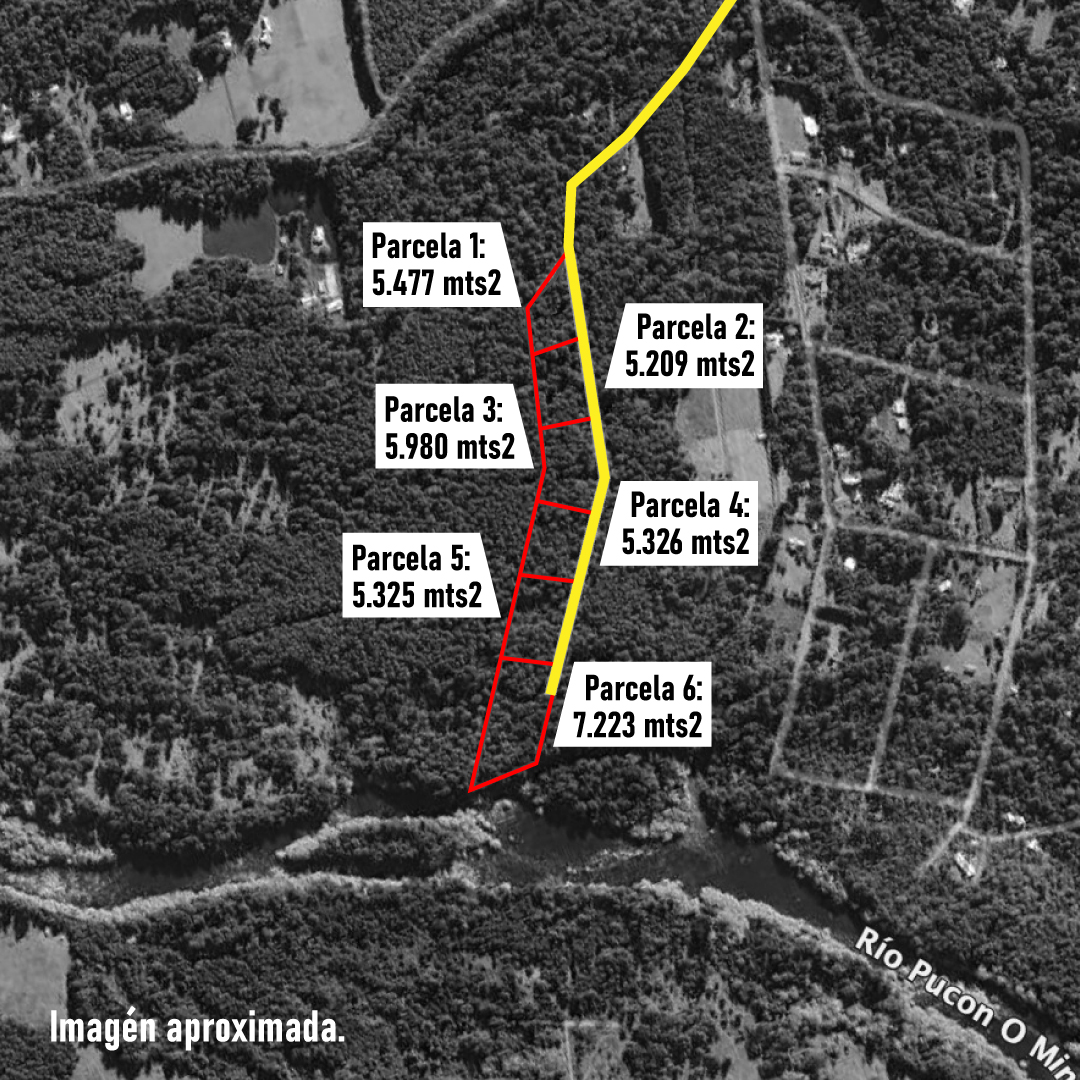
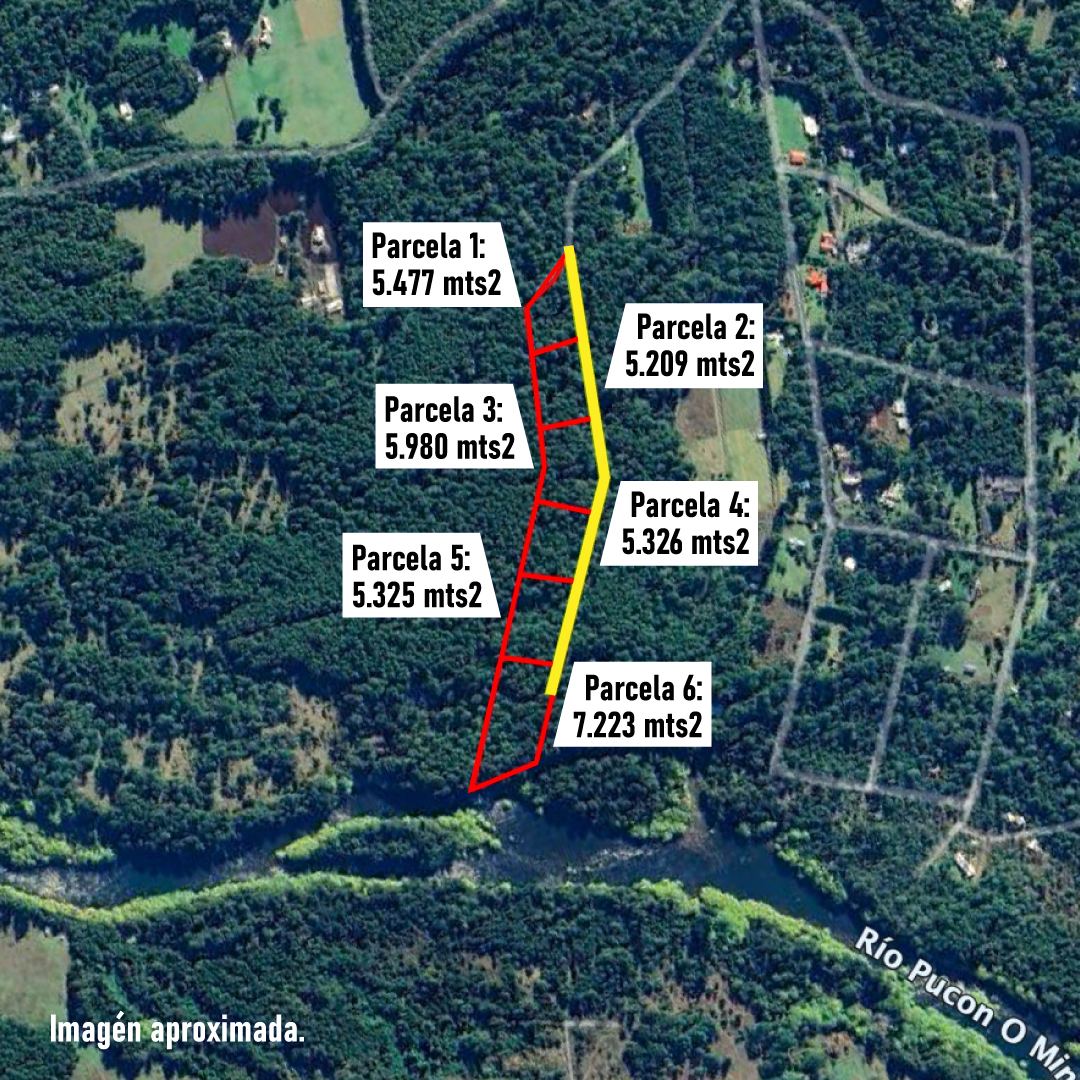
Actualizacion Pucon / colores

diff --git a/VistaPucon.html b/VistaPucon.html
@@ -58,12 +58,12 @@
   <div class="container">
     <img src="img/VistaPucon/MONTECOSARO-LOGO-CHILE-VISTA-PUCON-01.jpg" alt="Se venden terrenos Montecosaro Chile" width="200rem" class="navbar-brand">
     <h2 class="card-title title-proyecto">Solo 6 parcelas con terrenos que van de los 5.200 a los 7.200 metros</h2>
-    <div class="row row-cols-1 row-cols-md-3 g-4">
+    <div class="row row-cols-1 row-cols-md-2 g-4">
       <div class="col-sm-6 mb-3 mb-sm-0">
         <div class="card shadow">
           <div class="card-body card-body-2">
             <p class="card-text">El proyecto se encuentra a solo <b>10 minutos de Pucón,</b> a orillas del <b>río Trancura,</b> en un entorno <b>natural y tranquilo.</b></p><br>
-            <a class="btn btn-primary" href="https://maps.app.goo.gl/nxb11nhTcbGHsby89" role="button">Ver en Google Maps</a>
+            <a class="btn btn-primary" href="https://maps.app.goo.gl/nxb11nhTcbGHsby89" role="button" target="_blank">Ver en Google Maps</a>
           </div>
         </div>
       </div>
@@ -73,15 +73,9 @@
             <img src="img/VistaPucon/mapa-vista-real-lotes-pucon-2.jpg" class="object-fit-contain border rounded" width="100%" height="auto" alt="">
           </div>
         </div>
-      </div><div class="col-sm-6 mb-3 mb-sm-0">
-        <div class="card shadow">
-          <div class="card-body card-body-2">
-            <img src="img/VistaPucon/mapa-vista-real-lotes-pucon-3.jpg" class="object-fit-contain border rounded" width="100%" height="auto" alt="">
-          </div>
-        </div>
-      </div>
     </div>
   </div>
+
   <div class="container">
     <div class="row justify-content-evenly title-proyecto">
       <img src="logos/APROBACION-SAC-01.png" class="img-logos" alt="">
@@ -91,6 +85,18 @@
       <img src="logos/CAMINOS-ESTABILIZADOS-01.png" class="img-logos" alt="">
       <img src="logos/RED-DE-AGUA-SUBTERRANEO-01.png" class="img-logos" alt="">
       <img src="logos/RED-ELECTRICA-SUBTERRANEO-01.png" class="img-logos" alt="">
+    </div>
+  </div>
+  <br><br>
+  <div class="container">
+    <div class="row row-cols-1 row-cols-md-1 g-4">
+      </div><div class="col-sm-12 mb-3 mb-sm-0">
+        <div class="card shadow">
+          <div class="card-body card-body-2">
+            <img src="img/VistaPucon/mapa-vista-real-lotes-pucon-3.jpg" class="object-fit-contain border rounded" width="100%" height="auto" alt="">
+          </div>
+        </div>
+      </div>
     </div>
   </div>
   <br><br>
@@ -131,7 +137,7 @@
   </a>
 
   <!-- FOOTER -->
-  <footer class="container-fluid text-bg-primary">
+  <footer class="container-fluid">
     <p class="float-end"><a class="link-light" href="#"><b>Inicio</b></a></p>
     <p>Montecosaro Chile, 2024.<br>Todos los derechos reservados.</p>
   </footer>

diff --git a/VistaCerroCastillo.html b/VistaCerroCastillo.html
@@ -161,7 +161,7 @@
   </a>
 
   <!-- FOOTER -->
-  <footer class="container-fluid text-bg-primary">
+  <footer class="container-fluid">
     <p class="float-end"><a class="link-light" href="#"><b>Inicio</b></a></p>
     <p>Montecosaro Chile, 2024.<br>Todos los derechos reservados.</p>
   </footer>

diff --git a/VistaIbanez.html b/VistaIbanez.html
@@ -155,7 +155,7 @@
   </a>
 
   <!-- FOOTER -->
-  <footer class="container-fluid text-bg-primary">
+  <footer class="container-fluid">
     <p class="float-end"><a class="link-light" href="#"><b>Inicio</b></a></p>
     <p>Montecosaro Chile, 2024.<br>Todos los derechos reservados.</p>
   </footer>

diff --git a/index.html b/index.html
@@ -91,7 +91,7 @@
   </div>
 
   <!-- FOOTER -->
-  <footer class="container-fluid text-bg-primary">
+  <footer class="container-fluid">
     <p class="float-end"><a class="link-light" href="#"><b>Inicio</b></a></p>
     <p>Montecosaro Chile, 2024.<br>Todos los derechos reservados.</p>
   </footer>

diff --git a/carousel.css b/carousel.css
@@ -8,6 +8,10 @@ body {
   color: rgb(var(--bs-tertiary-color-rgb));
 }
 
+footer {
+  background-color: #1678bd;
+  color: white;
+}
 
 /* CUSTOMIZE THE CAROUSEL
 -------------------------------------------------- */
